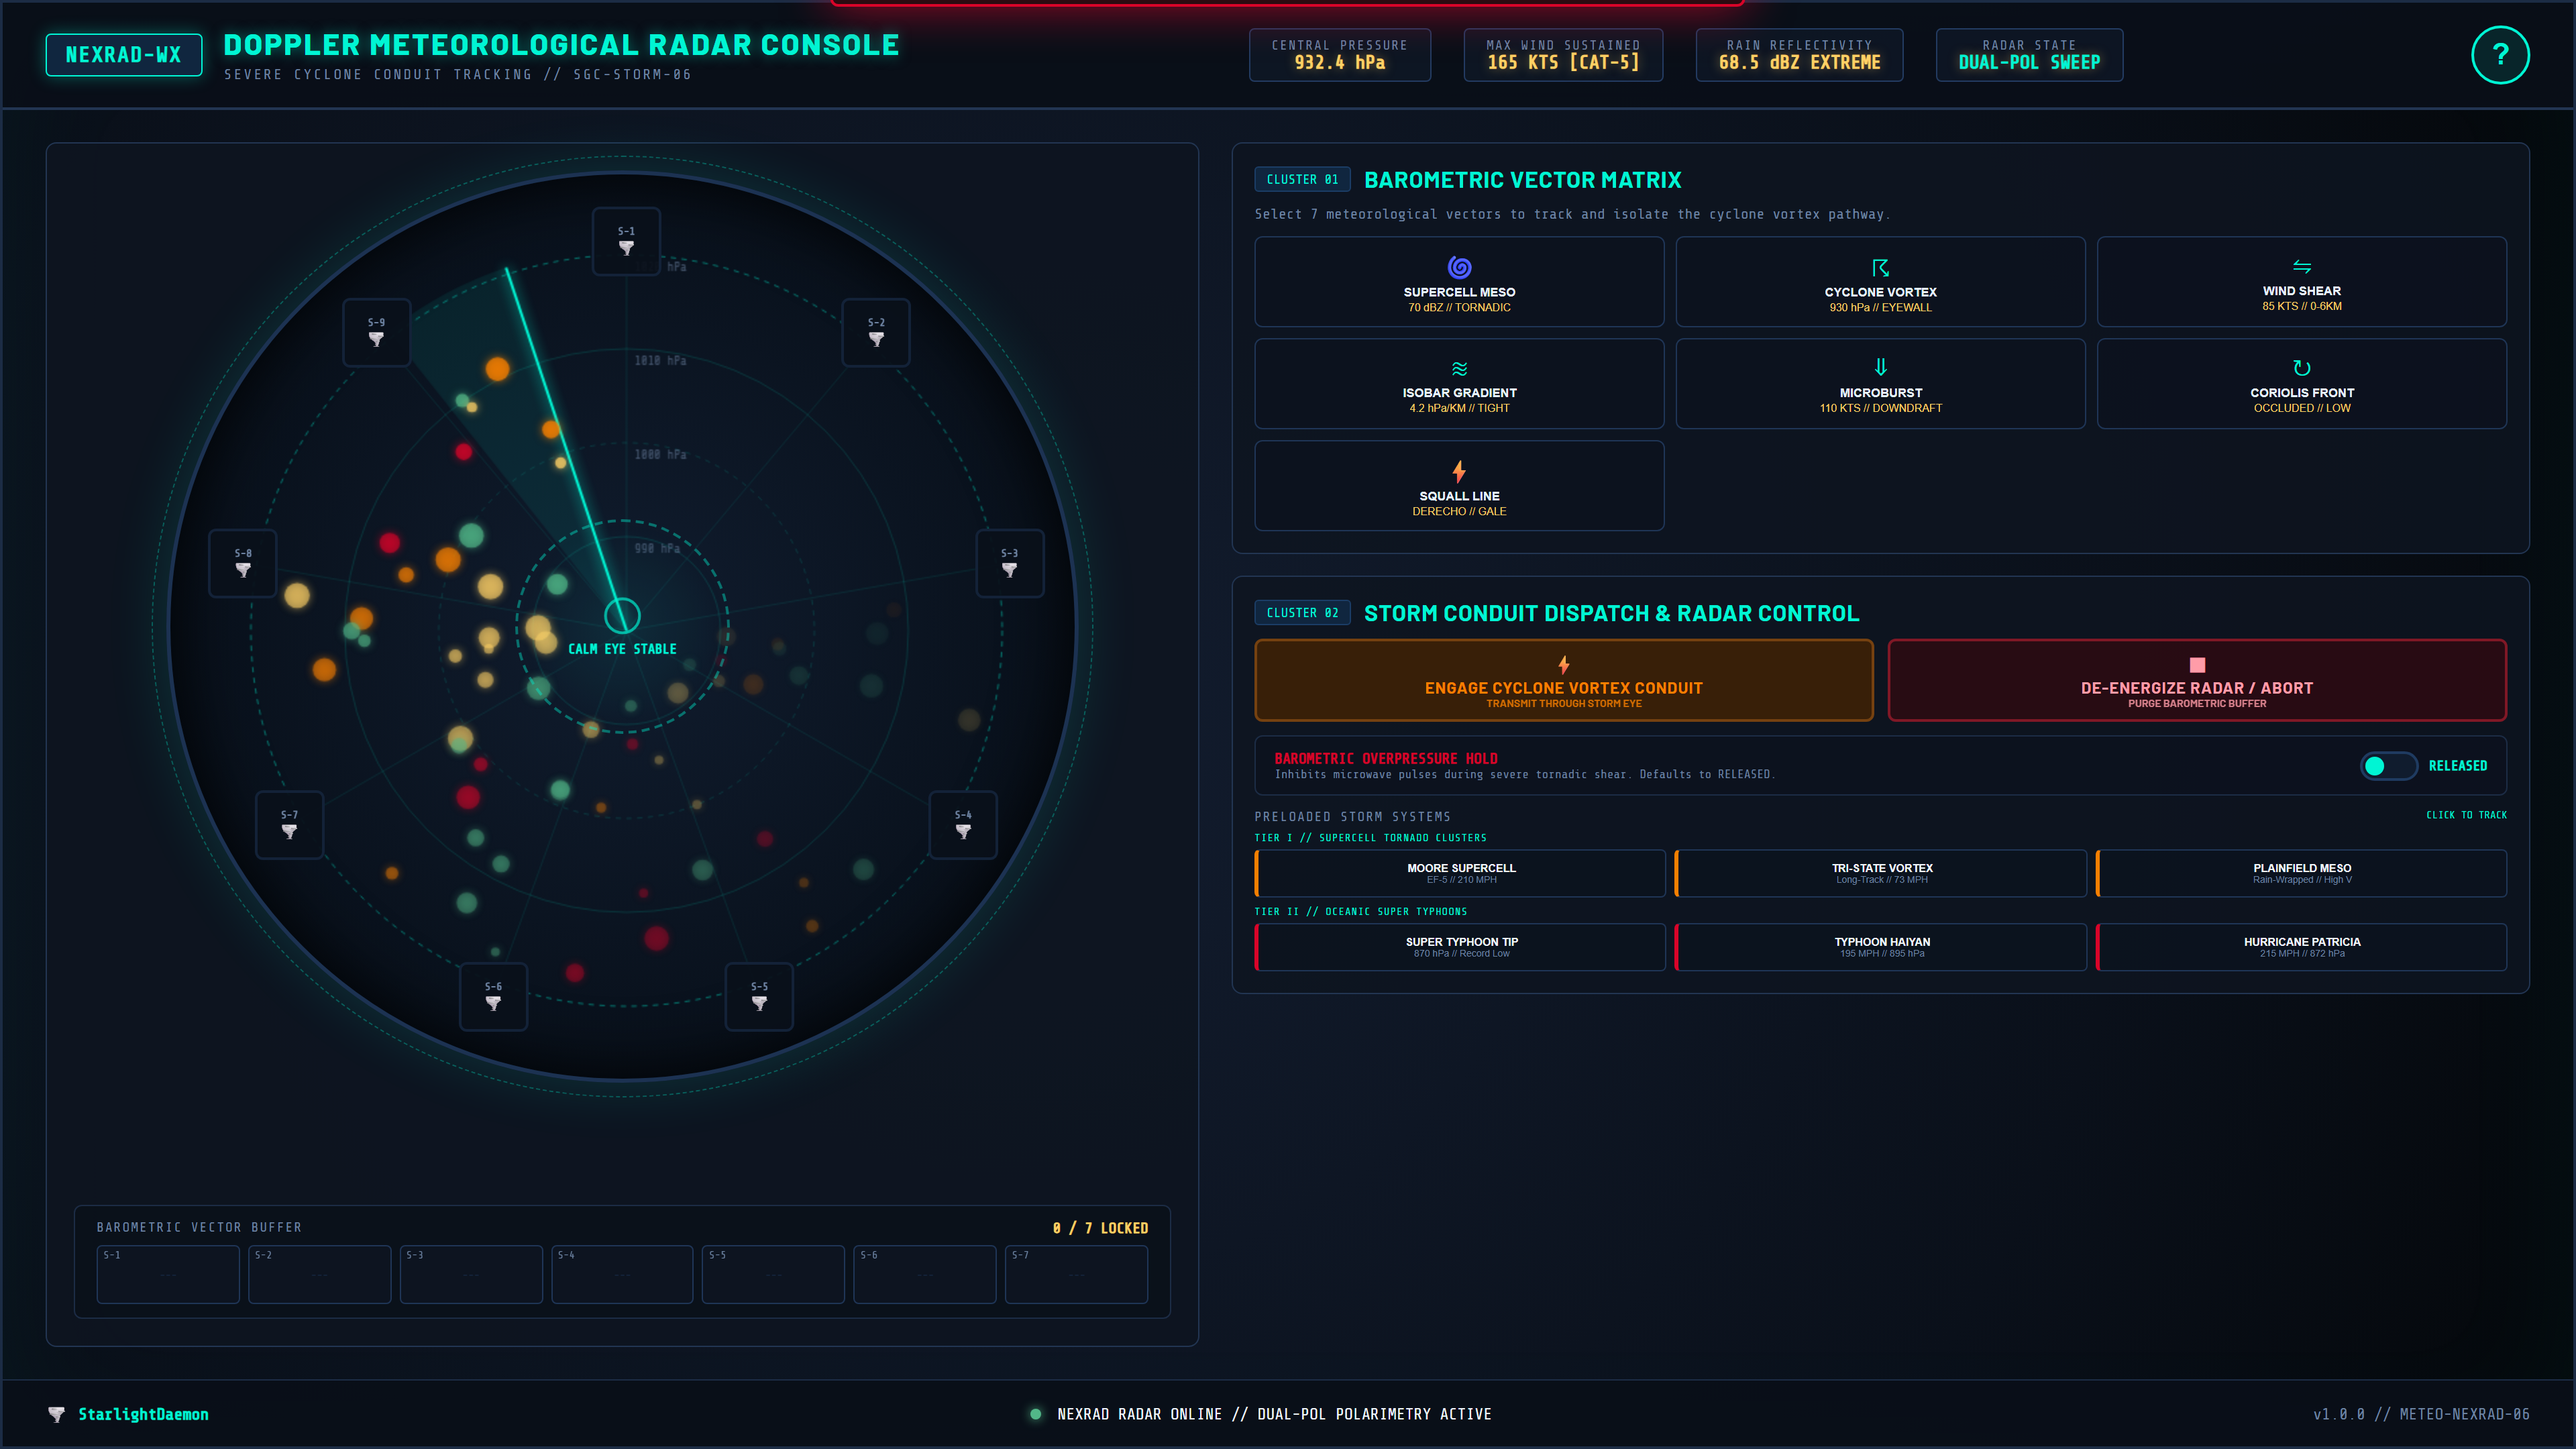
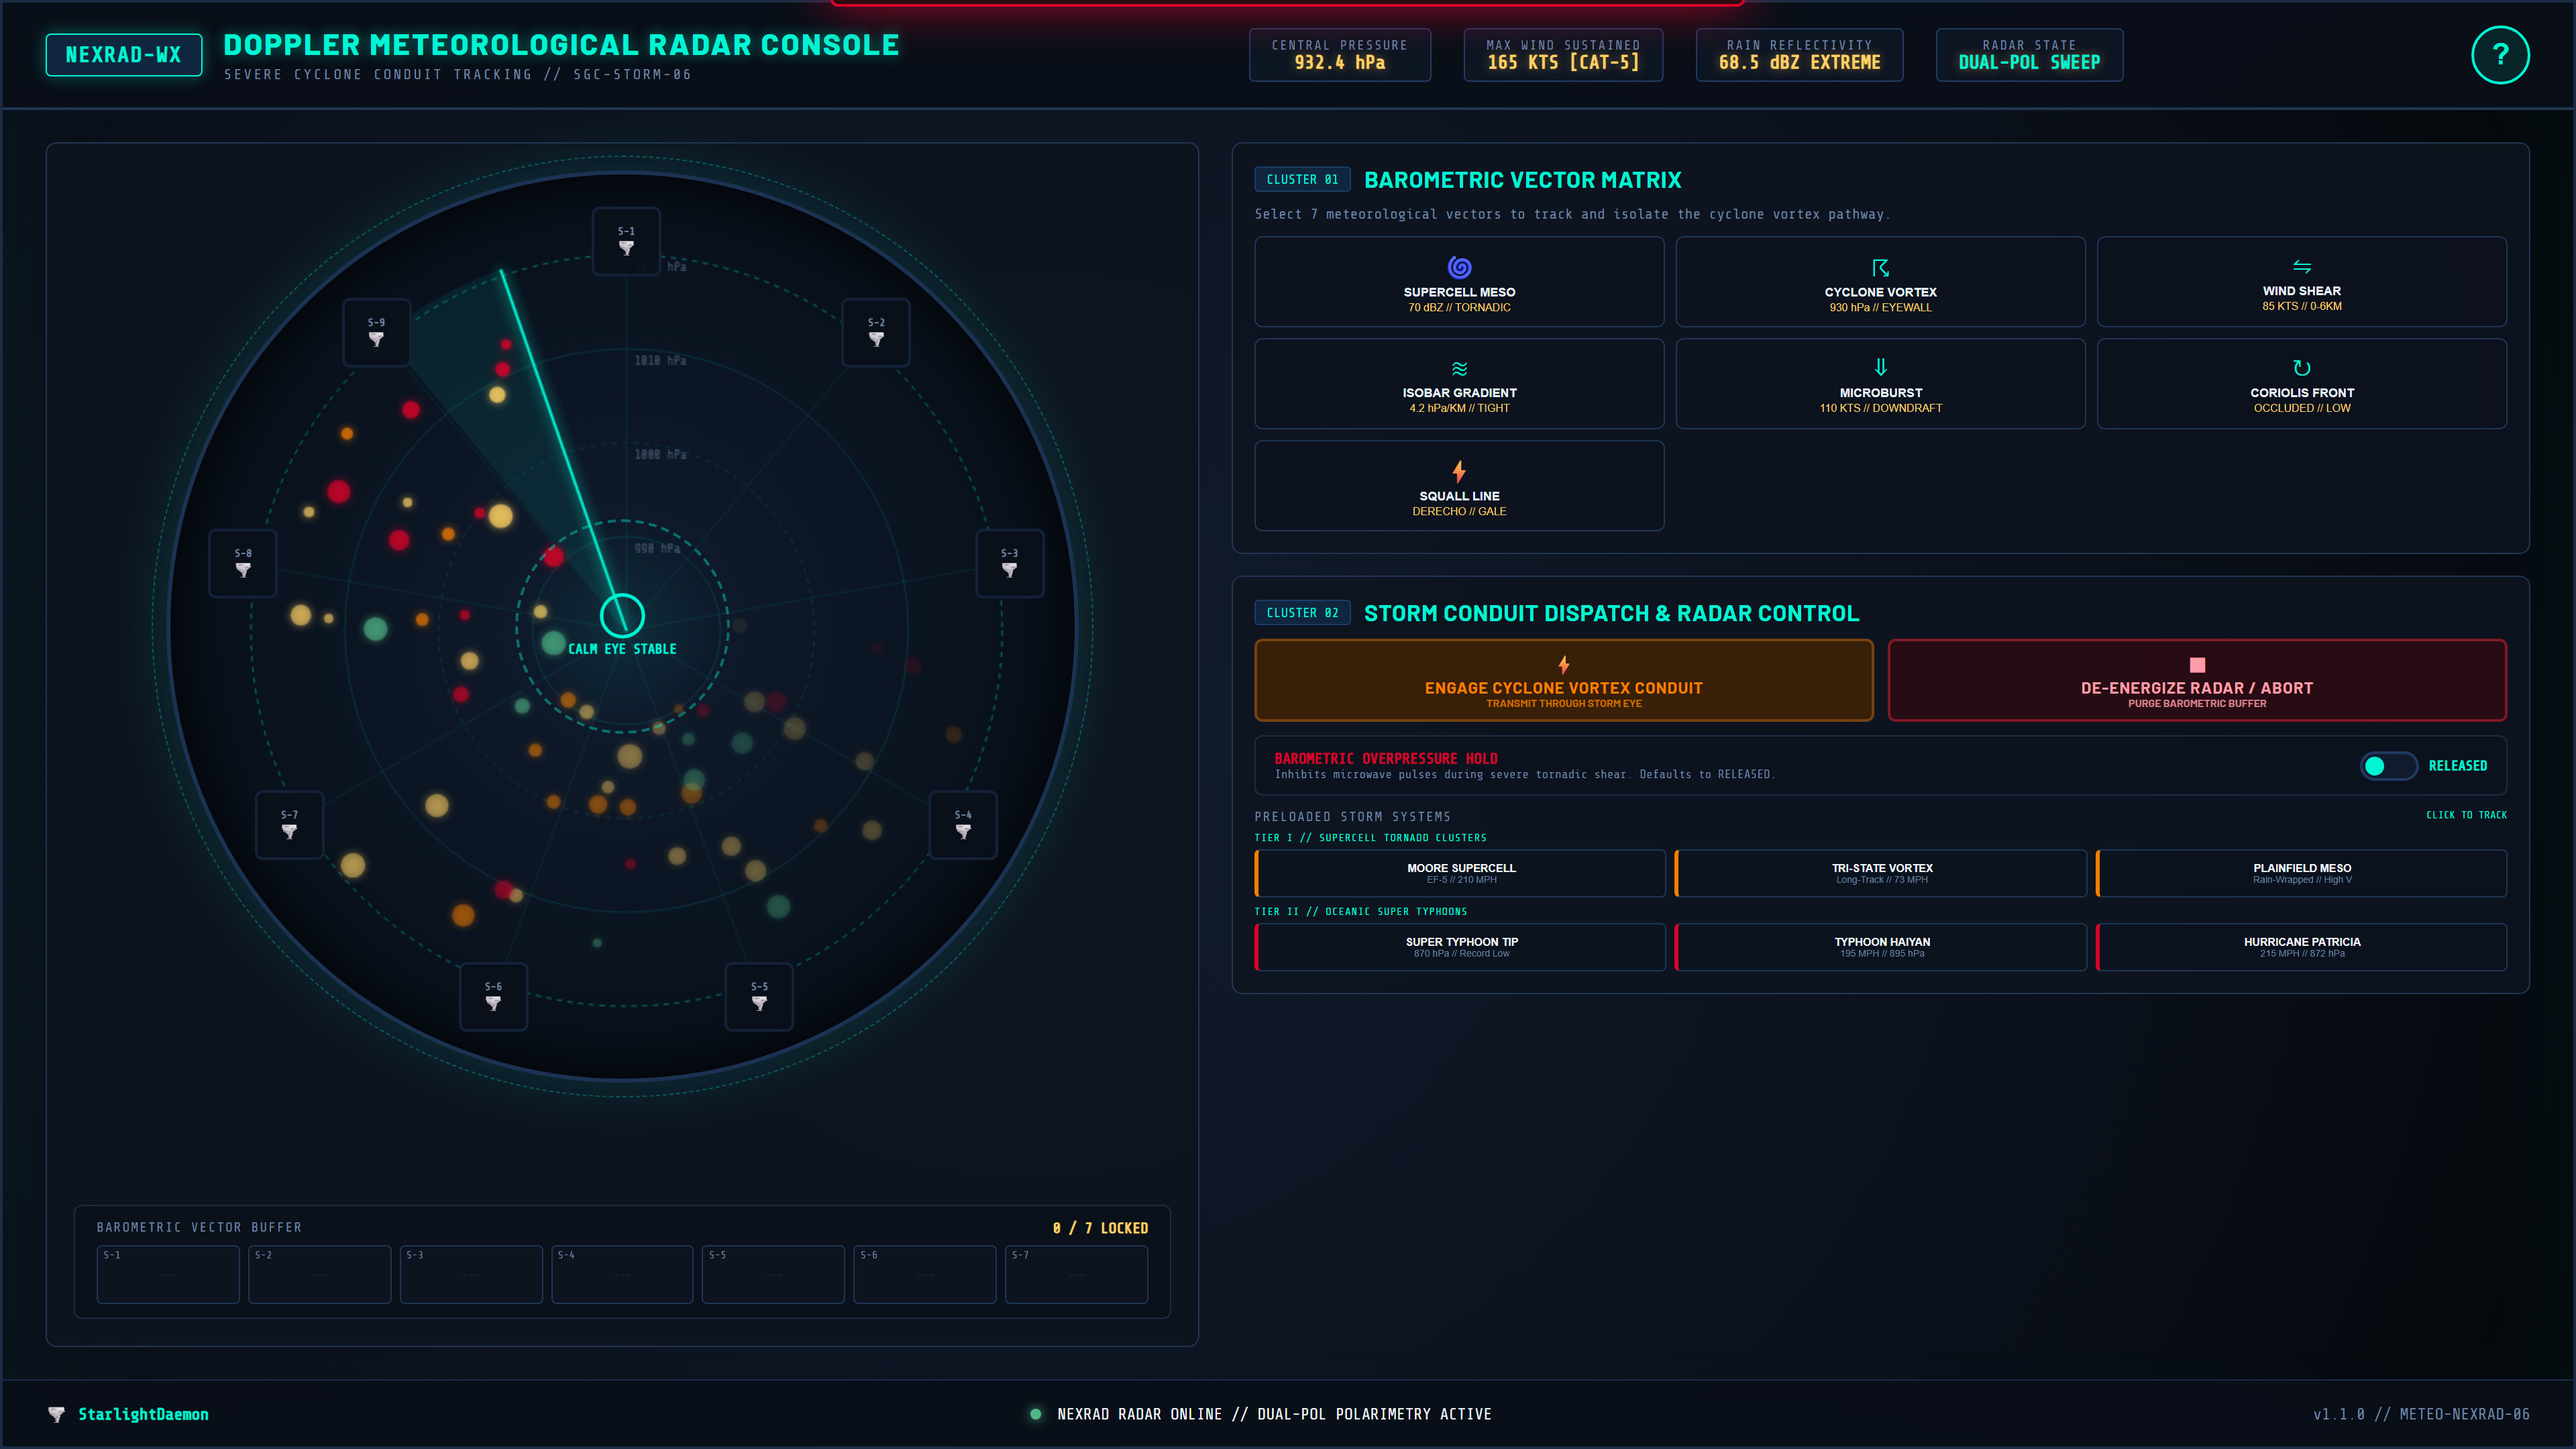
fix(stargate_meteorological_nexrad): stage preset quick-dial through per-vector sweep locks (v1.1.0)
loadPreset previously locked all 7 glyphs in one synchronous forEach,
jumping straight to PENDING_READY and skipping the per-glyph radar
ping, chevron lock, and TRACKING telemetry manual dialing uses. Presets
now replay the archived storm track through lockGlyph (the manual lock
path) at 280ms per vector - radar sweep cadence. Replay lands in
PENDING_READY without engaging the conduit; DE-ENERGIZE/ABORT cancels
an in-flight replay, and engaging the safety hold mid-replay halts
remaining sweeps with one interlock alert. Tests: staged sampling with
in-progress screenshots, mid-replay abort test, re-timed preset check.

diff --git a/stargate_meteorological_nexrad/test_build.js b/stargate_meteorological_nexrad/test_build.js
@@ -231,7 +231,7 @@ async function runTests() {
     // --- TEST CYCLE 2: PRESET -> NEGATIVE CHECK -> ACTIVATE -> ACTIVE VERIFICATION -> DISENGAGE ---
     console.log('\n--- EXECUTING DIAL-ACTIVATE-DISENGAGE CYCLE 2 ---');
     await hitAndClick('.preset-btn[data-preset="moore-ef5"]');
-    await sleep(600);
+    await sleep(2600); // storm-track replay: 7 vectors x 280ms sweep cadence
 
     const stateAfterPreset = await cdp.eval(`(() => {
       const counter = document.getElementById('address-counter').textContent;
@@ -271,6 +271,67 @@ async function runTests() {
       return document.getElementById('address-counter').textContent;
     })()`);
     console.log(`[Cycle 2 - After Disengage]: ${stateAfterDisengage2}`);
+
+    // --- TEST STAGED STORM-TRACK REPLAY (per-vector locks, no instant jump) ---
+    console.log('\n--- TESTING STAGED PRESET REPLAY ---');
+    await hitAndClick('.preset-btn[data-preset="moore-ef5"]');
+    // hitAndClick sleeps 250ms after the click; sample on an absolute clock
+    const clickT0 = Date.now() - 250;
+
+    const replaySamples = [];
+    for (const off of [450, 1000, 1550]) {
+      const rem = clickT0 + off - Date.now();
+      if (rem > 0) await sleep(rem);
+      const s = await cdp.eval(`(() => ({
+        locked: (document.getElementById('address-counter').textContent.match(/^(\\d+)/) || [0,0])[1],
+        teleState: document.getElementById('tele-state').textContent,
+        activateDisabled: document.getElementById('btn-activate').hasAttribute('disabled')
+      }))()`);
+      s.locked = parseInt(s.locked, 10);
+      replaySamples.push(s);
+      console.log(`  t=${Date.now() - clickT0}ms:`, JSON.stringify(s));
+      await cdp.screenshot(path.join(__dirname, `screenshot_replay_t${off}.png`));
+    }
+    const rCounts = replaySamples.map(s => s.locked);
+    const stagedOk = rCounts.every((v, i) => i === 0 || v > rCounts[i - 1]) &&
+      replaySamples.every(s => s.locked > 0 && s.locked < 7 && s.activateDisabled &&
+        !s.teleState.includes('STORM EYE CONDUIT ACTIVE'));
+    if (!stagedOk) {
+      throw new Error(`FAIL: Preset replay is not visibly staged: ${JSON.stringify(replaySamples)}`);
+    }
+
+    // Completion +1.2s: PENDING, activate enabled, NOT active
+    const toEnd = clickT0 + 1960 + 1200 - Date.now();
+    if (toEnd > 0) await sleep(toEnd);
+    const replayEnd = await cdp.eval(`(() => ({
+      counter: document.getElementById('address-counter').textContent,
+      teleState: document.getElementById('tele-state').textContent,
+      activateDisabled: document.getElementById('btn-activate').hasAttribute('disabled')
+    }))()`);
+    console.log('[Replay End]:', JSON.stringify(replayEnd));
+    if (!replayEnd.counter.includes('7 / 7') || replayEnd.activateDisabled ||
+        replayEnd.teleState.includes('STORM EYE CONDUIT ACTIVE')) {
+      throw new Error('FAIL: Replay did not land in PENDING_READY without auto-fire.');
+    }
+    console.log('>>> STAGED REPLAY CONFIRMED: per-vector locks, PENDING at end, no auto-fire.');
+
+    // --- TEST DISENGAGE DURING REPLAY ---
+    console.log('\n--- TESTING ABORT DURING PRESET REPLAY ---');
+    await hitAndClick('#btn-disengage');
+    await sleep(200);
+    await hitAndClick('.preset-btn[data-preset="moore-ef5"]');
+    await sleep(500); // ~2 vectors locked (250ms already slept in hitAndClick)
+    const midAbortState = await cdp.eval(`document.getElementById('address-counter').textContent`);
+    console.log(`[Mid-replay before abort]: ${midAbortState}`);
+    await hitAndClick('#btn-disengage');
+    await sleep(1900); // past when remaining sweeps would have fired
+    const afterAbortState = await cdp.eval(`document.getElementById('address-counter').textContent`);
+    console.log(`[After mid-replay abort +1.9s]: ${afterAbortState}`);
+    if (!afterAbortState.includes('0 / 7')) {
+      throw new Error('FAIL: Abort during replay left orphaned sweep timers still locking vectors.');
+    }
+    await cdp.screenshot(path.join(__dirname, 'screenshot_mid_replay_abort.png'));
+    console.log('>>> MID-REPLAY ABORT CONFIRMED: no orphaned locks after disengage.');
 
     // --- TEST BAROMETRIC OVERPRESSURE SAFETY HOLD ---
     console.log('\n--- TESTING BAROMETRIC OVERPRESSURE SAFETY HOLD ---');

diff --git a/stargate_meteorological_nexrad/app.js b/stargate_meteorological_nexrad/app.js
@@ -480,6 +480,7 @@
 
   // --- DISENGAGE / ABORT TRIGGER ---
   function disengageConduit() {
+    cancelPresetReplay(); // abort any in-flight storm-track replay
     SoundFX.deenergizePurge();
 
     state.mode = 'IDLE';
@@ -506,6 +507,19 @@
   }
 
   // --- PRESET QUICK-DIAL LOADER ---
+  // ARCHIVED STORM-TRACK REPLAY: presets re-acquire each stored vector on
+  // successive antenna sweeps — the volume scan runs at radar cadence, far
+  // faster than manual isolation, but every vector still passes through the
+  // same lockGlyph barometric contour lock (radar ping, chevron lock, telemetry)
+  // as a manually dialed glyph. The 7th lock lands in PENDING_READY; the
+  // conduit NEVER engages on its own.
+  let presetReplayTimers = [];
+
+  function cancelPresetReplay() {
+    presetReplayTimers.forEach(t => clearTimeout(t));
+    presetReplayTimers = [];
+  }
+
   function loadPreset(presetKey) {
     if (state.safetyHoldEngaged) {
       triggerInterlockAlert();
@@ -514,12 +528,21 @@
     const preset = PRESETS[presetKey];
     if (!preset) return;
 
-    disengageConduit();
+    disengageConduit(); // also cancels any in-flight replay
 
-    preset.glyphs.forEach(glyphName => {
-      const btn = document.querySelector(`.glyph-btn[data-glyph="${glyphName}"]`);
-      const sym = btn ? btn.dataset.symbol : '🌪';
-      lockGlyph(glyphName, sym);
+    const SWEEP_STEP_MS = 280; // radar sweep cadence: faster than manual, one vector per sweep
+    preset.glyphs.forEach((glyphName, i) => {
+      const timer = setTimeout(() => {
+        if (state.safetyHoldEngaged) {
+          cancelPresetReplay();
+          triggerInterlockAlert();
+          return;
+        }
+        const btn = document.querySelector(`.glyph-btn[data-glyph="${glyphName}"]`);
+        const sym = btn ? btn.dataset.symbol : '🌪';
+        lockGlyph(glyphName, sym);
+      }, SWEEP_STEP_MS * (i + 1));
+      presetReplayTimers.push(timer);
     });
   }
 

diff --git a/stargate_meteorological_nexrad/index.html b/stargate_meteorological_nexrad/index.html
@@ -278,7 +278,7 @@
         <span id="footer-status-text">NEXRAD RADAR ONLINE // DUAL-POL POLARIMETRY ACTIVE</span>
       </div>
       <div class="footer-right">
-        <span class="version-tag">v1.0.0 // METEO-NEXRAD-06</span>
+        <span class="version-tag">v1.1.0 // METEO-NEXRAD-06</span>
       </div>
     </footer>
   </div>

diff --git a/stargate_meteorological_nexrad/CHANGELOG.md b/stargate_meteorological_nexrad/CHANGELOG.md
@@ -5,6 +5,19 @@ All notable changes to this project will be documented in this file.
 The format is based on [Keep a Changelog](https://keepachangelog.com/en/1.0.0/),
 and this project adheres to [Semantic Versioning](https://semver.org/spec/v2.0.0.html).
 
+## [1.1.0] - 2026-08-15
+
+**Built by:** Claude Opus (auto-dial staging fix; original build by Gemini 3.6 Flash (high reasoning))
+
+### Fixed
+- **Preset Quick-Dial Instant-Jump Bug**: loading a severe-storm preset previously locked all 7 vector glyphs in one synchronous forEach, jumping straight to `PENDING_READY` and bypassing the per-glyph radar ping, chevron lock animation, and `TRACKING` telemetry progression that manual dialing uses.
+- **Archived Storm-Track Replay**: presets now re-acquire each stored vector through the exact same `lockGlyph` barometric contour lock as a manual dial, one vector every 280ms — in-universe, the Doppler array replays an archived storm track on successive antenna sweeps: the volume scan runs at radar cadence, far faster than manual isolation, but every vector still needs its own sweep lock.
+- Replay lands in the identical `PENDING_READY` state as manual dialing and **never engages the conduit on its own** (asserted at completion +1.2s).
+- `DE-ENERGIZE / ABORT` remains fully functional **during** a replay: aborting mid-sequence cancels all pending sweep timers and resets cleanly (new automated test). Engaging the Barometric Overpressure Safety Hold mid-replay also halts the remaining sweeps with a single interlock alert.
+
+### Changed
+- Verification suite: staged-replay sampling with in-progress screenshots, mid-replay abort test; preset assertion re-timed for the ~2s replay.
+
 ## [1.0.1] - 2026-08-13
 
 ### Operator Evaluation & Status Note
